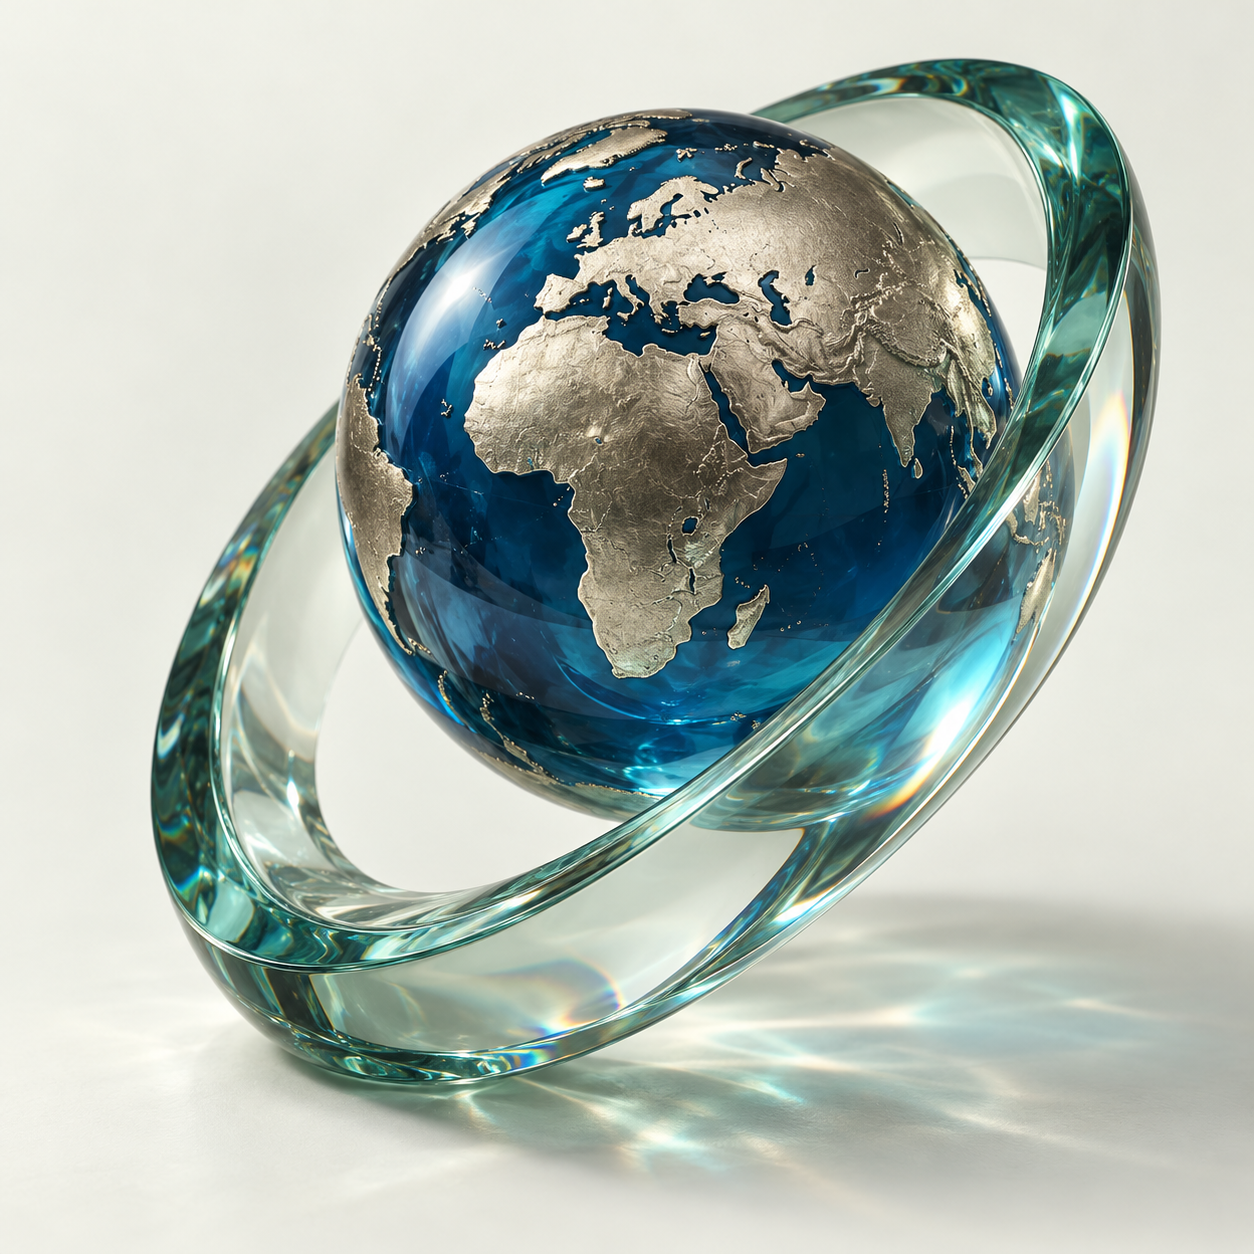
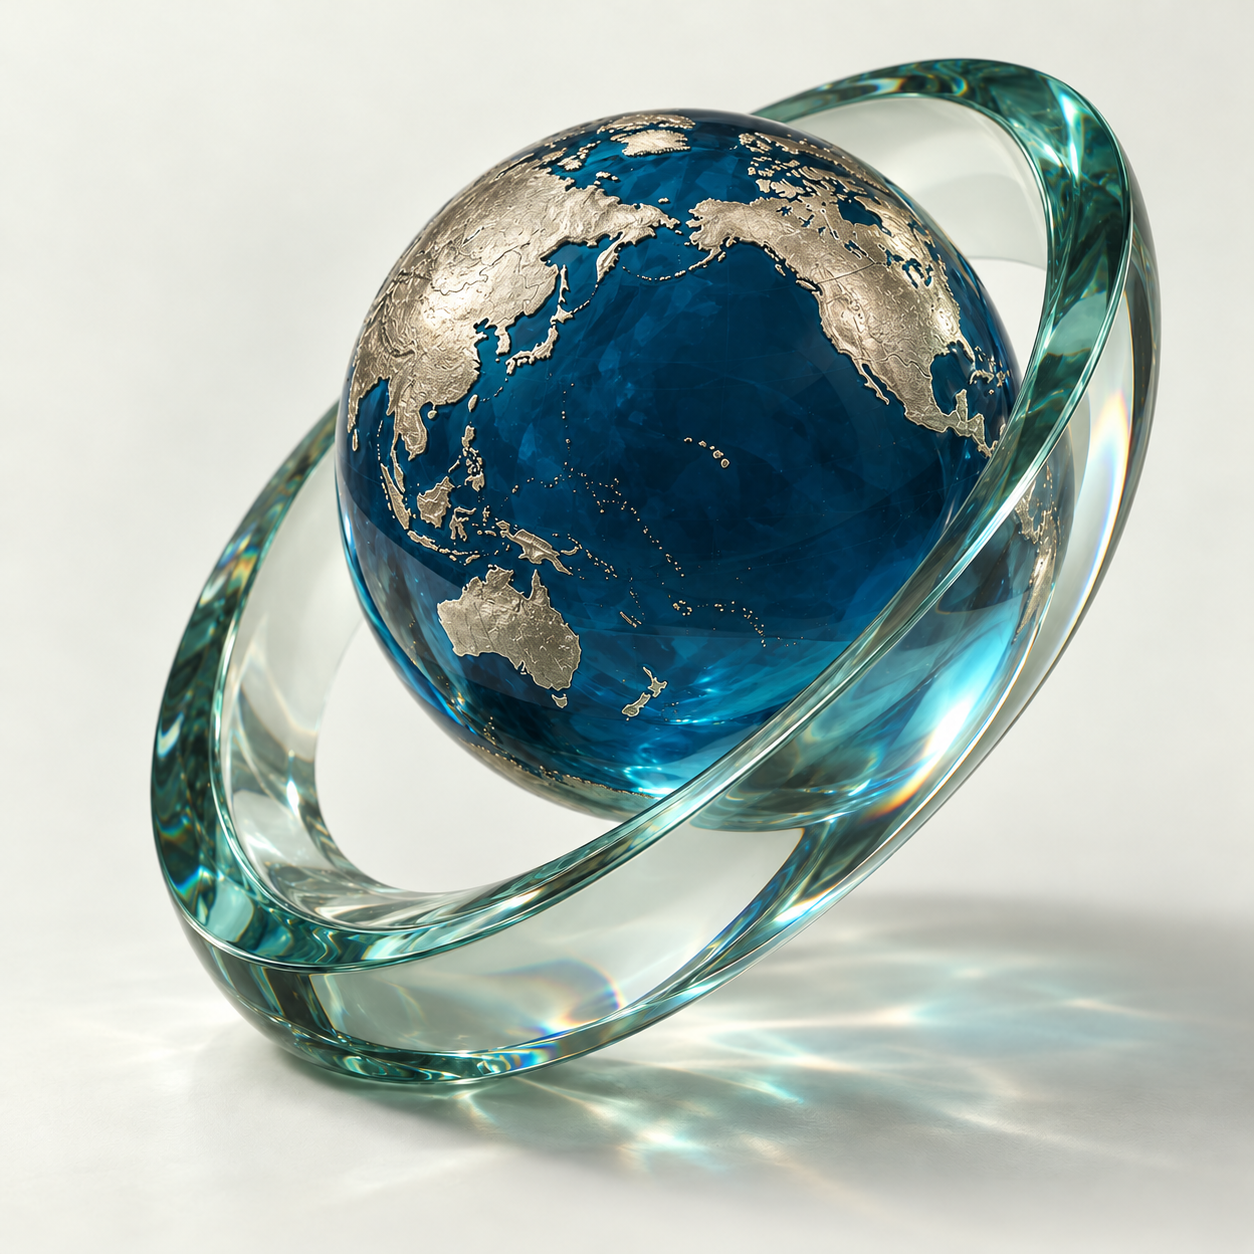
Focus the globe on East Asia and North America and refine Chinese detail typography

diff --git a/app/product-story.css b/app/product-story.css
@@ -1,7 +1,9 @@
 /* Product-story pacing, interpreted for a personal research portfolio. */
 .site-header-shell,.site-header-shell.header-light,.site-header-shell.header-night,.site-header-shell.header-teal{--header-bg:#e9eee7b8;backdrop-filter:blur(24px) saturate(1.2);border-bottom:1px solid #527b7b21}.site-header{min-height:68px}.brand-avatar{width:34px;height:34px}.hero{grid-template-columns:minmax(0,1.12fr) minmax(300px,.88fr);gap:6%;padding-top:72px;min-height:860px}.hero:before{opacity:.25}.hero-name{font-weight:600;letter-spacing:-.065em}.hero h1,.language-zh .hero h1{font-size:clamp(34px,3.2vw,46px);font-weight:600;line-height:1.38;letter-spacing:-.055em;max-width:640px;text-wrap:balance}.language-en .hero h1{font-size:clamp(32px,3.1vw,44px);line-height:1.2;font-weight:600;letter-spacing:-.045em}.hero-summary{font-size:15px;line-height:1.9}.hero-actions .button{border-radius:30px;min-height:48px;padding-inline:24px}.hero-market-field{width:43%;height:560px;top:70px}.hero-globe{inset:-3% -14% 5%}.atlas-markets{inset:61px 10px 104px}.profile-card{margin-top:560px}.hero-facts{border-radius:12px;overflow:hidden;border:1px solid #476e791a}.hero-facts>div{padding-inline:14px}.hero-facts>div+div{padding-left:14px}.availability{margin-left:6px}.chapter-heading .section-title{font-size:clamp(39px,4.3vw,62px);font-weight:600;letter-spacing:-.055em;line-height:1.22;text-wrap:balance}.chapter-heading{gap:8%;margin-bottom:52px}.chapter-heading>p{font-size:15px;line-height:1.9}.chapter-inner{padding-block:100px}.work-journal{background:linear-gradient(125deg,#edece0d9,#e5eae1ed 52%,#dceae3bd)}.research-journey{gap:6%;grid-template-columns:minmax(0,.9fr) minmax(0,1.1fr);margin-top:0}.research-beat{min-height:90vh;padding-bottom:70px}.research-chapter-number{font-size:clamp(150px,16vw,240px);color:#25777908;top:6%}.research-kicker{font-size:11px;margin-bottom:20px}.research-beat h3{font-size:clamp(30px,3.2vw,46px);font-weight:600;line-height:1.3;letter-spacing:-.055em}.research-role{font-size:12px}.research-summary{font-size:15px;line-height:1.95;max-width:47ch}.research-stage-sticky{top:96px;padding-top:10px}.research-stage{border-radius:34px;height:clamp(450px,43vw,580px);border-color:#ffffffb8;box-shadow:0 30px 55px -35px #2a555a55,inset 0 1px #fff}.stage-running-label{top:6%;font-size:9px}.research-stage .stage-halo{opacity:.5}.research-object{inset:13% 0 15%}.research-methods{margin-top:24px}.research-methods>span{font-size:12px;padding-block:12px}.stage-caption{bottom:24px;padding-top:16px}.stage-caption p{font-size:12px}.research-jump{justify-content:center;gap:0;max-width:390px;margin:22px auto 0;padding:5px;border:1px solid #658b853b;border-radius:40px;background:#eff3e8d9;box-shadow:0 5px 18px #3557520c;backdrop-filter:blur(14px)}.research-jump button{padding:12px 15px;border:0;justify-content:center;gap:9px;min-height:44px;white-space:nowrap;border-radius:25px;color:#517777;transition:background .3s,color .3s}.research-jump button i{display:none}.research-jump button[aria-current]{background:#246b70;color:#f3f8ef;box-shadow:0 2px 5px #244e5530}.research-jump button span{opacity:.65}.research-more{font:inherit;align-self:flex-start;display:flex;align-items:center;gap:16px;border:0;background:#f6f7ee9c;border-radius:24px;padding:4px 5px 4px 17px;margin-top:22px;min-height:44px;cursor:pointer;color:#2c6674;font-size:12px;box-shadow:inset 0 0 0 1px #5b898628;transition:background .25s,box-shadow .25s}.research-more span{display:grid;place-items:center;width:34px;height:34px;border-radius:50%;color:#edf7ee;background:#297b7c;font-size:20px}.research-more:hover{background:#fffdf3;box-shadow:inset 0 0 0 1px #4d85845e,0 3px 12px #35575212}.research-more:focus-visible{outline:2px solid #247c84;outline-offset:5px}.ai-practice-select button{border-radius:28px;padding-inline:20px}.ai-exhibit{border-radius:25px;overflow:hidden;border-color:#a3c8c62b;box-shadow:0 22px 60px -35px #001a2880}.ai-stage-switch{gap:22px}.ai-stage-heading h3{font-weight:500}.ai-practice-foot button{background:#96c4bd0d}.creative-category>summary{min-height:190px}.creative-heading strong{font-weight:500!important}.creative-category{border-radius:0}.foundation-grid>article{border-radius:21px}.foundation-grid{gap:25px}.contact-inner h2{font-size:clamp(34px,4.1vw,58px);font-weight:500;letter-spacing:-.045em}.site-shell:has(.research-insight-dialog[open]){--pointer-visible:0}
-.research-insight-dialog{width:min(790px,calc(100vw - 80px));max-height:calc(100vh - 110px);padding:0;border:1px solid #ffffffb8;border-radius:30px;color:#203d4f;background:linear-gradient(125deg,#faf9ed,#e3eeea);box-shadow:0 35px 100px #183e4b50;overflow:auto;overscroll-behavior:contain;font-family:Arial,"Microsoft YaHei",sans-serif}.research-insight-dialog::backdrop{background:#17374680;backdrop-filter:blur(14px)}body:has(.research-insight-dialog[open]){overflow:hidden}.research-insight-content{padding:60px;position:relative}.insight-close{font:inherit;position:absolute;top:20px;right:20px;display:grid;place-items:center;width:44px;height:44px;border-radius:50%;background:#d9e5df;border:0;color:#34586a;font-size:27px;cursor:pointer}.insight-close:hover{background:#c4dbd3}.insight-close:focus-visible,.insight-next:focus-visible{outline:2px solid #247c84;outline-offset:4px}.insight-eyebrow{font-size:10px;color:#328081;letter-spacing:.15em;margin:0 0 20px}.research-insight-content>h3{font-size:37px;line-height:1.3;letter-spacing:-.045em;margin:0;font-weight:600;text-wrap:balance}.insight-question{font-size:23px;font-weight:400;line-height:1.6;color:#41727a;margin:25px 0 35px;max-width:25ch;text-wrap:balance}.research-insight-content dl{margin:0}.research-insight-content dl>div{display:grid;grid-template-columns:100px minmax(0,1fr);gap:20px;padding:20px 0;border-top:1px solid #557b782c}.research-insight-content dt{font-size:11px;line-height:1.9;color:#518180}.research-insight-content dd{font-size:14px;line-height:1.9;margin:0;color:#34596b}.insight-next{display:flex;justify-content:space-between;gap:25px;align-items:center;color:#256c7c;text-decoration:none;font-size:12px;line-height:1.8;border-top:1px solid #557b782c;padding-top:26px;margin-top:10px;min-height:44px}.insight-next span{font-size:22px}.language-en .research-insight-content>h3{font-size:35px}.language-en .insight-question{max-width:32ch;font-size:22px}
+.research-insight-dialog{width:min(790px,calc(100vw - 80px));max-height:calc(100vh - 110px);padding:0;border:1px solid #ffffffb8;border-radius:30px;color:#203d4f;background:linear-gradient(125deg,#faf9ed,#e3eeea);box-shadow:0 35px 100px #183e4b50;overflow:auto;overscroll-behavior:contain;font-family:Arial,"Microsoft YaHei",sans-serif}.research-insight-dialog::backdrop{background:#17374680;backdrop-filter:blur(14px)}body:has(.research-insight-dialog[open]){overflow:hidden}.research-insight-content{padding:60px;position:relative}.insight-close{font:inherit;position:absolute;top:20px;right:20px;display:grid;place-items:center;width:44px;height:44px;border-radius:50%;background:#d9e5df;border:0;color:#34586a;font-size:27px;cursor:pointer}.insight-close:hover{background:#c4dbd3}.insight-close:focus-visible,.insight-next:focus-visible{outline:2px solid #247c84;outline-offset:4px}.insight-eyebrow{font-size:10px;color:#328081;letter-spacing:.15em;margin:0 0 20px}.research-insight-content>h3{font-size:37px;line-height:1.3;letter-spacing:-.045em;margin:0;font-weight:600;text-wrap:balance}.insight-question{font-size:23px;font-weight:400;line-height:1.6;color:#41727a;margin:25px 0 35px;max-width:none;text-wrap:balance}.research-insight-content dl{margin:0}.research-insight-content dl>div{display:grid;grid-template-columns:100px minmax(0,1fr);gap:20px;padding:20px 0;border-top:1px solid #557b782c}.research-insight-content dt{font-size:11px;line-height:1.9;color:#518180}.research-insight-content dd{font-size:14px;line-height:1.9;margin:0;color:#34596b}.insight-next{display:flex;justify-content:space-between;gap:25px;align-items:center;color:#256c7c;text-decoration:none;font-size:12px;line-height:1.8;border-top:1px solid #557b782c;padding-top:26px;margin-top:10px;min-height:44px}.insight-next span{font-size:22px}.language-en .research-insight-content>h3{font-size:35px}.language-en .insight-question{max-width:32ch;font-size:22px}
 @media(min-width:1400px){.hero{min-height:880px}.hero-market-field{top:83px}.profile-card{margin-top:568px}}
 @media(min-width:701px) and (max-width:1100px){.hero{padding-top:60px;min-height:850px}.hero h1,.language-zh .hero h1{font-size:34px}.language-en .hero h1{font-size:32px}.hero-market-field{width:40%;height:505px;top:65px}.profile-card{margin-top:535px}.hero-facts>div{padding-inline:10px}.research-beat h3{font-size:32px}.research-summary{font-size:14px}.research-stage{height:470px}.research-journey{gap:4%}.research-jump button{font-size:10px;padding-inline:10px}.chapter-heading .section-title{font-size:42px}.research-methods>span{font-size:11px}}
 @media(max-width:700px){.hero{min-height:0;padding-top:40px}.hero h1,.language-zh .hero h1,.language-en .hero h1{font-size:29px}.hero-market-field{height:430px;width:100%;top:auto}.profile-card{margin-top:34px}.hero-facts>div{padding-inline:10px}.hero-facts>div+div{padding-left:10px}.chapter-inner{padding-block:64px}.chapter-heading .section-title{font-size:35px}.chapter-heading>p{font-size:14px}.research-stage{height:450px;border-radius:25px}.research-stage-sticky{top:auto;padding-top:0}.research-beat{min-height:auto;padding-top:60px;padding-bottom:25px}.research-beat h3{font-size:30px}.research-summary{font-size:14px}.research-journey{gap:0}.research-jump{margin-bottom:20px}.research-insight-dialog{width:calc(100vw - 30px);max-height:calc(100vh - 50px);border-radius:24px}.research-insight-content{padding:60px 27px 30px}.research-insight-content>h3{font-size:28px}.insight-question{font-size:20px}.research-insight-content dl>div{grid-template-columns:68px 1fr;gap:15px}.research-insight-content dd{font-size:13px}.language-en .research-insight-content>h3{font-size:28px}.language-en .insight-question{font-size:20px}.creative-category>summary{min-height:165px}}
 @media(prefers-reduced-motion:reduce){.research-jump button,.research-more{transition:none}}
+
+.insight-question>span{display:inline-block;max-width:100%}

diff --git a/app/ResearchJourney.tsx b/app/ResearchJourney.tsx
@@ -88,7 +88,7 @@ export default function ResearchJourney({ language, onSelect }: { language: Lang
         <button type="button" className="insight-close" onClick={() => dialog.current?.close()} aria-label={zh ? "关闭研究重点" : "Close research detail"}>×</button>
         <p className="insight-eyebrow">RESEARCH / 0{detail+1}</p>
         <h3 id="research-insight-title">{selectedWork[detail].title[language]}</h3>
-        <p className="insight-question">{(detail===0 ? (zh ? "哪些体验因素，与用户满意度关联更强？" : "Which experience factors are more closely associated with satisfaction?") : (zh ? "如何在不同客群、品类和期次之间，持续判断品牌表现？" : "How can brand performance be tracked across audiences, categories, and waves?"))}</p>
+        <p className="insight-question">{zh ? (detail===0 ? <><span>哪些体验因素，</span><span>与用户满意度关联更强？</span></> : <><span>如何在不同客群、品类和期次之间，</span><span>持续判断品牌表现？</span></>) : (detail===0 ? "Which experience factors are more closely associated with satisfaction?" : "How can brand performance be tracked across audiences, categories, and waves?")}</p>
         <dl><div><dt>{zh ? "我的职责" : "My responsibility"}</dt><dd>{selectedWork[detail].role[language]}</dd></div><div><dt>{zh ? "分析重点" : "Analytical focus"}</dt><dd>{detail===0 ? (zh ? "比较市场和平台的用户体验；用相对权重分析与跨期比较，解释满意度关联因素。" : "Compare experiences across markets and platforms, using relative weight analysis and wave comparisons to interpret factors associated with satisfaction.") : (zh ? "厘清指标定义与历史比较条件，整合多期数据，分析品牌认知、评价和形象。" : "Align measure definitions and historical comparisons, integrate wave data, and analyze brand awareness, perceptions, and image.")}</dd></div><div><dt>{zh ? "研究交付" : "Research delivery"}</dt><dd>{detail===0 ? (zh ? "跨市场分析报告、研究建议与后续分析方向。" : "Cross-market analysis, research recommendations, and directions for further analysis.") : (zh ? "多期数据整合与品牌追踪报告，支持品牌趋势和竞争表现判断。" : "Integrated wave data and brand-tracking reports to support assessments of brand trends and competitive performance.")}</dd></div></dl>
         <a className="insight-next" href="#method" onClick={() => dialog.current?.close()}>{zh ? "继续看 AI 如何进入研究流程" : "Explore how AI supports the research workflow"}<span aria-hidden="true">↗</span></a>
       </div>}
